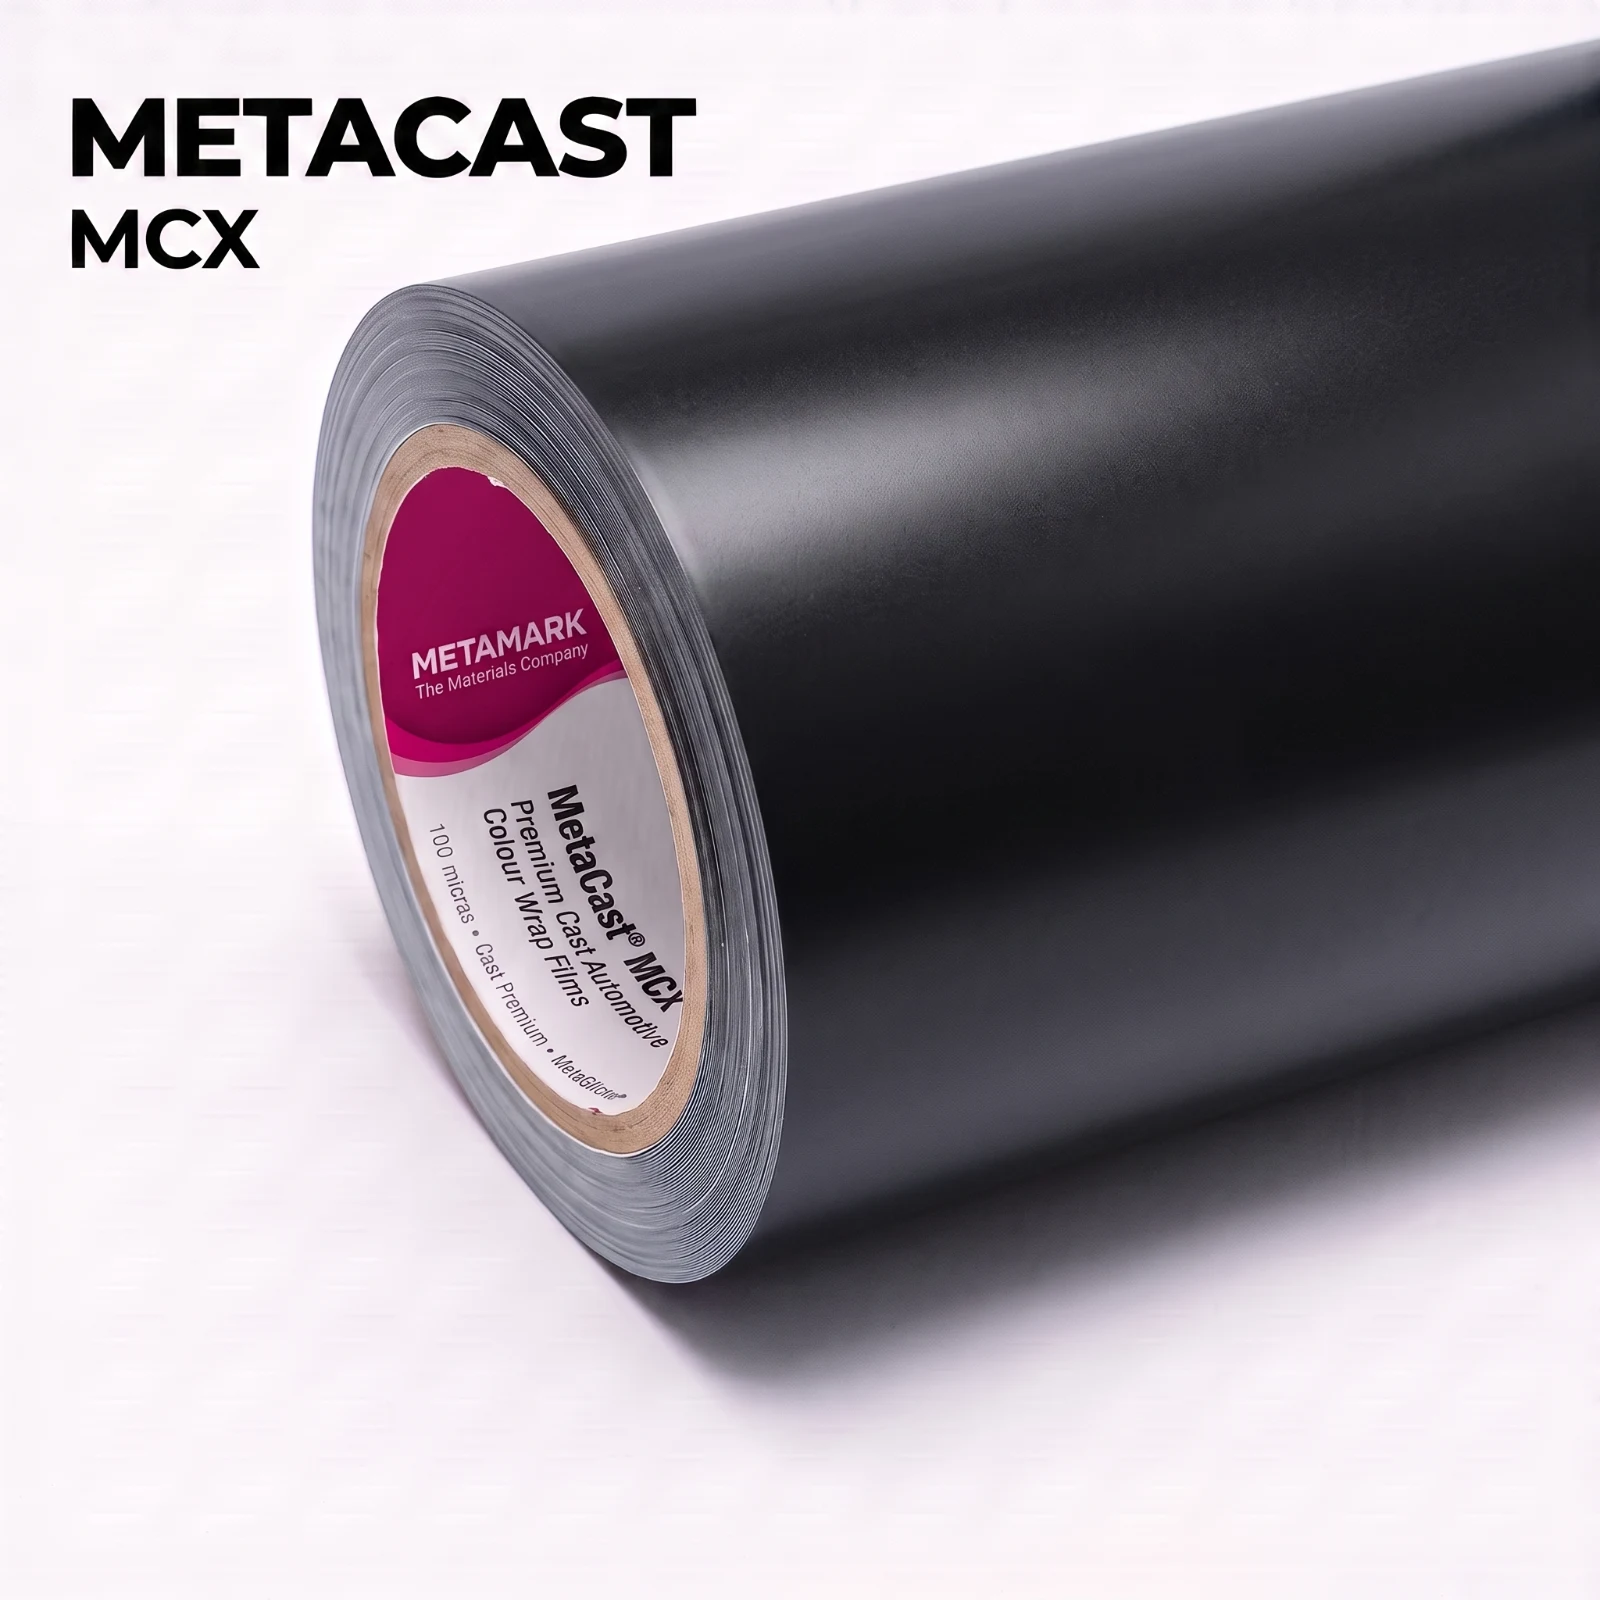
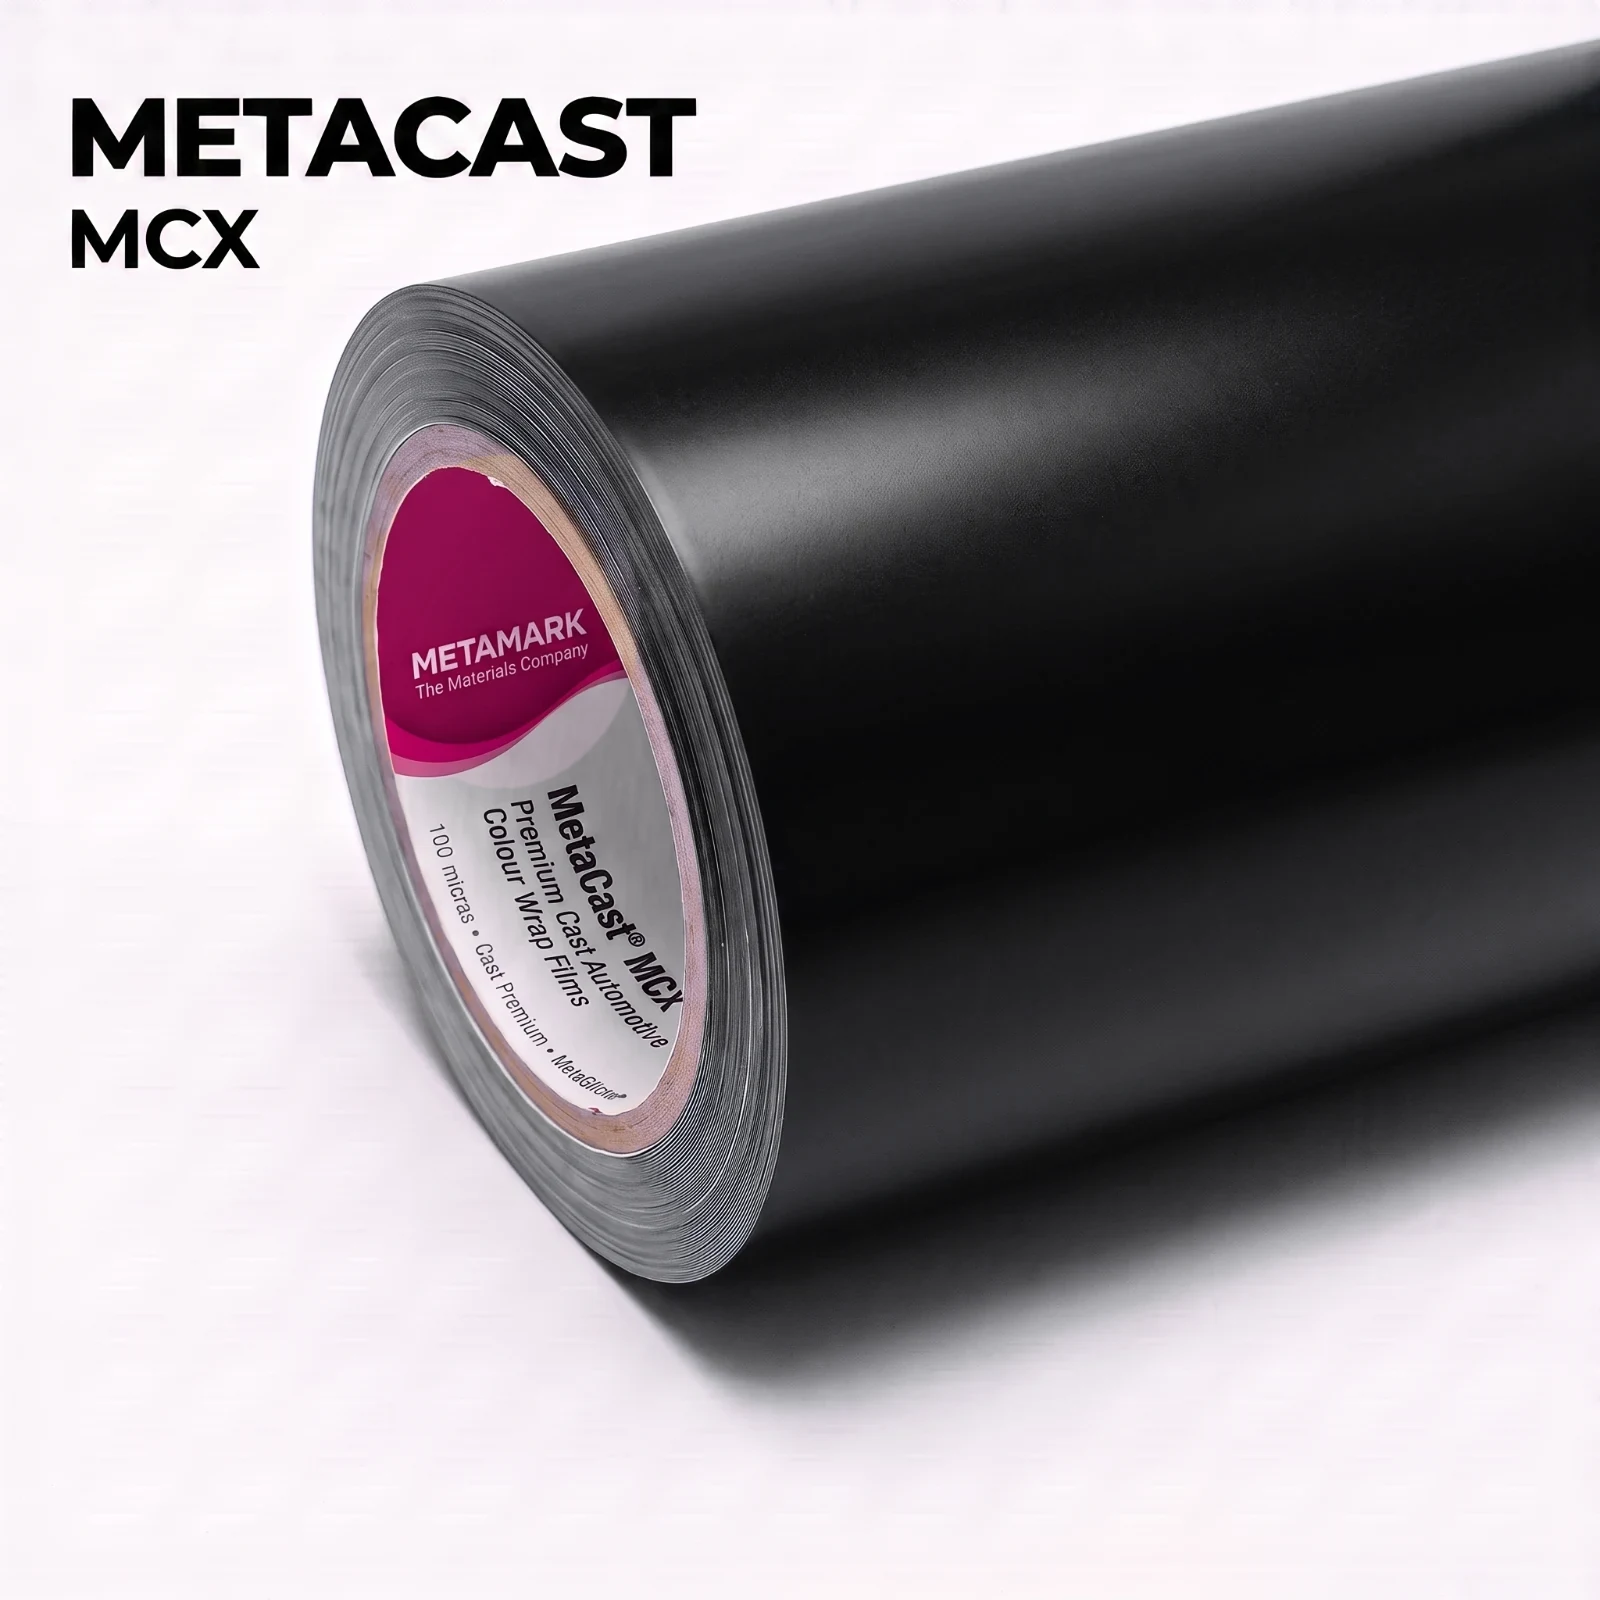
feat(mcx-12): quatro fotos BMW M5 + capa recolorida na leitura (#272729)

Changed region(s): [[0.1875, 0.0312, 1.0, 0.875]]

diff --git a/src/lib/shop/generic.ts b/src/lib/shop/generic.ts
@@ -336,6 +336,33 @@ export const MCX_EXTRA_PHOTOS: Record<string, string[]> = {
     '/assets/images/metamark/mcx/aplicacao/mcx-63-speed-green-4.jpg',
     '/assets/images/metamark/mcx/aplicacao/mcx-63-speed-green-5.jpg',
   ],
+  // MCX-12 Gotham Black — leitura #272729 · H 240° · S 5% · V 16% · SATIN
+  // SOLID. Sem amostra física: a leitura veio do chip oficial (swatch chapado)
+  // cruzado com a foto da brochure. O chip erra pouco na maioria (Urban Steel
+  // +5,1 de valor, Speed Green +3,5) mas errou 20,8 no Carbon Steel, então a
+  // tolerância declarada foi ±5.
+  //
+  // O acabamento é o ponto da cor, e é um dos dois únicos satin-solid da linha.
+  // Granulação medida na brochure: Obsidian (gloss metálico) 5,1, Jet Black
+  // (gloss sólido) 2,6, Gotham 2,2 — sólido sem flake nenhum. O satin aparece
+  // como faixa LARGA e macia de luz, sem imagem espelhada e sem estouro: na
+  // brochure o paralama abre até V 62 sem um pixel passar de 92% de luminância.
+  //
+  // BMW M5 F90 em deck de estacionamento de concreto, nublado claro direcional.
+  // Céu aberto porque o satin precisa de céu para a faixa existir; o concreto
+  // rebate e segura o valor nas saias.
+  //
+  // Medidos: -2 (frontal 3/4) H26 S11 V22, -3 (traseira 3/4) H172 S7 V20,
+  // -4 (perfil) H242 S4 V21, -5 (detalhe) H273 S3 V13. A -2 saiu com rebote
+  // quente do concreto e foi neutralizada por processamento local. Fica o
+  // registro para as próximas neutras: mandar no prompt que o piso é cinza
+  // frio, senão o modelo inventa um rebote dourado nas saias.
+  'mcx-12-gotham-black': [
+    '/assets/images/metamark/mcx/aplicacao/mcx-12-gotham-black-2.jpg',
+    '/assets/images/metamark/mcx/aplicacao/mcx-12-gotham-black-3.jpg',
+    '/assets/images/metamark/mcx/aplicacao/mcx-12-gotham-black-4.jpg',
+    '/assets/images/metamark/mcx/aplicacao/mcx-12-gotham-black-5.jpg',
+  ],
 };
 
 export const MCX_ROLL_IMAGES: Record<string, string> = {

diff --git a/scripts/recolorir-capa.py b/scripts/recolorir-capa.py
@@ -1,0 +1,297 @@
+#!/usr/bin/env python3
+"""
+Recolore o FILME de uma capa de rolo, preservando a composição pixel a pixel.
+
+POR QUE ISTO EXISTE
+-------------------
+As capas de rolo da MetaCast MCX (e das demais linhas) foram geradas por IA a
+partir de um template aprovado. A composição saiu certa — enquadramento, tubete,
+paper label METAMARK, logo no canto superior esquerdo — mas a COR do filme saiu
+com viés sistemático: mais escura e mais dessaturada que o chip do catálogo, às
+vezes com o matiz deslocado. Medições da MCX: Volcano Red 32 pontos de valor
+abaixo, Speed Green 24 e com matiz errado, Miami Blue 23, Chalk Grey 16,
+Monza Yellow 12, Jet Black 10.
+
+Regerar a imagem para corrigir a cor foi tentado e não funciona: o modelo
+reconstrói a composição, o rótulo sai girado ou ilegível, e a capa deixa de
+seguir o padrão da linha. A correção certa é aritmética, não generativa —
+a composição já está aprovada, só o filme precisa andar no espaço de cor.
+
+COMO FUNCIONA
+-------------
+1. Converte a imagem para HSV e mede a cor do filme (mediana de H, S e V sobre
+   a máscara), para saber de ONDE se está partindo. Nada é chutado.
+2. Monta uma máscara do filme por MATIZ + SATURAÇÃO. Numa capa de rolo o filme é
+   a única região cromática grande: o fundo é branco, o tubete é papelão, o label
+   é magenta. Uma faixa de matiz resolve sem segmentação. As bordas da máscara
+   entram por rampa e levam um desfoque gaussiano leve, o que evita o halo que
+   aparece quando se usa máscara binária (tentativa anterior com
+   `binary_propagation` cresceu por cima do label e comeu a marca).
+3. Aplica a transformação:
+      matiz      — desloca para o alvo e COMPRIME o espalhamento em torno dele,
+                   o que corrige matiz errado sem achatar a variação natural;
+      saturação  — curva de gama, não multiplicação;
+      valor      — curva de gama, não multiplicação.
+   A gama é escolhida para levar a MEDIANA medida exatamente ao alvo mantendo
+   0 em 0 e 1 em 1. Multiplicar estoura a crista do cilindro e fecha a barriga
+   em preto; a gama preserva o gradiente inteiro.
+4. Mede o resultado com o mesmo critério e imprime antes/depois. Se a medição
+   final não bater com o alvo, a correção não foi aplicada — é o teste.
+
+USO
+---
+    python3 scripts/recolorir-capa.py \\
+        --entrada public/assets/images/shop/metamark-mcx/mcx-63-speed-green.webp \\
+        --alvo '#548C46'
+
+    # sobrescrevendo no lugar, depois de conferir:
+    python3 scripts/recolorir-capa.py --entrada <arquivo> --alvo '#548C46' --no-lugar
+
+O alvo é a LEITURA DE COR da amostra física (hex canônico medido no leque), não
+o hex do chip da brochure. A leitura mora no comentário do slug em
+`src/lib/shop/generic.ts`.
+
+Requer: numpy, scipy, pillow.
+"""
+
+from __future__ import annotations
+
+import argparse
+import sys
+from pathlib import Path
+
+import numpy as np
+from PIL import Image
+from scipy.ndimage import binary_dilation, binary_fill_holes, gaussian_filter, label as rotular
+
+# Faixa de matiz de cada família de cor, em graus. A máscara pega o filme por
+# matiz; fora destas faixas está o que NÃO pode ser tocado (label magenta,
+# papelão, fundo). `vermelho` cruza o zero e é tratado à parte.
+#
+# `neutro` é o caso dos pretos, brancos e cinzas (MCX-10, MCX-12, MCX-22,
+# MCX-26, MCX-96, MCX-97...). Neles o filme NÃO tem matiz próprio para servir de
+# máscara — um Gotham Black marca 11% de saturação, abaixo do piso que separa
+# filme de fundo nas cores cromáticas. Aí a seleção inverte: pega-se o que é
+# QUASE ACINZENTADO dentro de uma faixa de valor, o que exclui o fundo branco
+# (claro demais) e o tubete de papelão (saturado e quente).
+FAIXAS = {
+    'neutro': None,
+    'vermelho': (330.0, 30.0),
+    'laranja': (12.0, 48.0),
+    'amarelo': (35.0, 75.0),
+    'verde': (72.0, 200.0),
+    'azul': (175.0, 265.0),
+    'roxo': (250.0, 320.0),
+    'rosa': (290.0, 350.0),
+}
+
+
+def hex_para_rgb(h: str) -> tuple[float, float, float]:
+    h = h.strip().lstrip('#')
+    if len(h) != 6:
+        raise ValueError(f'hex inválido: {h}')
+    return tuple(int(h[i:i + 2], 16) / 255.0 for i in (0, 2, 4))  # type: ignore[return-value]
+
+
+def rgb_para_hsv(a: np.ndarray) -> tuple[np.ndarray, np.ndarray, np.ndarray]:
+    """a: (...,3) em 0..1 → (H em 0..360, S em 0..1, V em 0..1)."""
+    r, g, b = a[..., 0], a[..., 1], a[..., 2]
+    mx = a.max(-1)
+    d = mx - a.min(-1)
+    v = mx
+    s = np.where(mx > 1e-6, d / np.maximum(mx, 1e-6), 0.0)
+    h = np.zeros_like(mx)
+    m = d > 1e-6
+    er = m & (mx == r)
+    eg = m & (mx == g) & ~er
+    eb = m & (mx == b) & ~er & ~eg
+    dd = np.maximum(d, 1e-6)
+    h[er] = (60 * (((g - b) / dd) % 6))[er]
+    h[eg] = (60 * (((b - r) / dd) + 2))[eg]
+    h[eb] = (60 * (((r - g) / dd) + 4))[eb]
+    return h % 360, s, v
+
+
+def hsv_para_rgb(h: np.ndarray, s: np.ndarray, v: np.ndarray) -> np.ndarray:
+    hh = (h % 360) / 60.0
+    i = np.floor(hh).astype(int) % 6
+    f = hh - np.floor(hh)
+    p = v * (1 - s)
+    q = v * (1 - s * f)
+    t = v * (1 - s * (1 - f))
+    r = np.choose(i, [v, q, p, p, t, v])
+    g = np.choose(i, [t, v, v, q, p, p])
+    b = np.choose(i, [p, p, t, v, v, q])
+    return np.stack([r, g, b], -1)
+
+
+def rampa(x: np.ndarray, lo: float, hi: float) -> np.ndarray:
+    return np.clip((x - lo) / (hi - lo), 0.0, 1.0)
+
+
+def montar_mascara(
+    h: np.ndarray, s: np.ndarray, v: np.ndarray,
+    familia: str, sat_min: float, val_min: float, feather: float,
+    val_max: float = 0.80, sat_max: float = 0.34,
+) -> np.ndarray:
+    """Máscara suave do filme. Bordas por rampa + gaussiana: sem halo, sem
+    invadir o label."""
+    if familia == 'neutro':
+        ms = 1 - rampa(s, sat_max * 0.7, sat_max)   # descarta papelão e magenta
+        mv = rampa(v, val_min * 0.5, val_min) * (1 - rampa(v, val_max, val_max + 0.12))
+        return np.clip(gaussian_filter(ms * mv, feather), 0.0, 1.0)
+    lo, hi = FAIXAS[familia]
+    larg = 14.0  # largura da rampa de matiz, em graus
+    if lo > hi:  # faixa que cruza 0° (vermelho)
+        dentro = rampa(h, lo - larg, lo) + rampa(-h, -hi, -hi + larg)
+        mh = np.clip(dentro, 0, 1)
+    else:
+        mh = rampa(h, lo, lo + larg) * (1 - rampa(h, hi - larg, hi))
+    ms = rampa(s, sat_min * 0.6, sat_min)
+    mv = rampa(v, val_min * 0.5, val_min)
+    return np.clip(gaussian_filter(mh * ms * mv, feather), 0.0, 1.0)
+
+
+def achar_label(h: np.ndarray, s: np.ndarray, v: np.ndarray, margem: int) -> np.ndarray:
+    """Disco do paper label METAMARK, para ficar FORA da recoloração.
+
+    O campo magenta do label (matiz ~330°) cai dentro da faixa 'vermelho' e
+    'rosa'. Sem esta proteção, recolorir uma capa vermelha repinta a marca e
+    deixa um halo de matiz oposto na borda serrilhada entre o magenta e o
+    branco do label. Aqui o magenta é achado, o maior blob é tomado como o
+    label, os furos (o texto branco por dentro) são preenchidos e o resultado
+    é dilatado pela margem — crescer a PROTEÇÃO é inócuo, ao contrário de
+    crescer a máscara do filme.
+    """
+    magenta = ((h >= 300) & (h <= 352) & (s >= 0.30) & (v >= 0.15))
+    if magenta.sum() < 200:
+        return np.zeros_like(magenta)
+    marcas, n = rotular(magenta)
+    if n == 0:
+        return np.zeros_like(magenta)
+    maior = 1 + int(np.argmax(np.bincount(marcas.ravel())[1:]))
+    disco = binary_fill_holes(marcas == maior)
+    # o label é maior que só o campo magenta: fecha a elipse inteira pelo bbox
+    ys, xs = np.nonzero(disco)
+    cy, cx = (ys.min() + ys.max()) / 2, (xs.min() + xs.max()) / 2
+    ry, rx = (ys.max() - ys.min()) / 2 + margem, (xs.max() - xs.min()) / 2 + margem
+    Y, X = np.ogrid[:h.shape[0], :h.shape[1]]
+    elipse = ((Y - cy) / max(ry, 1)) ** 2 + ((X - cx) / max(rx, 1)) ** 2 <= 1.0
+    return binary_dilation(disco | elipse, iterations=2)
+
+
+def medir(a: np.ndarray, sel: np.ndarray) -> dict:
+    h, s, v = rgb_para_hsv(a)
+    rgb = [int(round(float(np.median(a[..., k][sel])) * 255)) for k in range(3)]
+    return {
+        'hex': '#%02X%02X%02X' % tuple(rgb),
+        'h': float(np.median(h[sel])),
+        's': float(np.median(s[sel])) * 100,
+        'v': float(np.median(v[sel])) * 100,
+        'v_p10_p90': tuple(np.percentile(v[sel], [10, 90]) * 100),
+        's_p10_p90': tuple(np.percentile(s[sel], [10, 90]) * 100),
+    }
+
+
+def main() -> int:
+    ap = argparse.ArgumentParser(description=__doc__, formatter_class=argparse.RawDescriptionHelpFormatter)
+    ap.add_argument('--entrada', required=True, help='capa de origem (.webp/.png/.jpg)')
+    ap.add_argument('--alvo', required=True, help="hex da LEITURA da amostra, ex '#548C46'")
+    ap.add_argument('--saida', help='destino; padrão = <entrada>-recolorido.png')
+    ap.add_argument('--no-lugar', action='store_true', help='sobrescreve a entrada, no formato dela')
+    ap.add_argument('--familia', default='verde', choices=sorted(FAIXAS),
+                    help="faixa de matiz do filme; use 'neutro' para pretos, brancos e cinzas (padrão: verde)")
+    ap.add_argument('--val-max', type=float, default=0.80,
+                    help="só em --familia neutro: acima disto é o fundo branco do estúdio")
+    ap.add_argument('--sat-max', type=float, default=0.34,
+                    help="só em --familia neutro: acima disto é papelão ou o magenta do label")
+    ap.add_argument('--compressao-matiz', type=float, default=0.60,
+                    help='0 = todo o filme vira um matiz só; 1 = mantém o espalhamento original (padrão: 0.60)')
+    ap.add_argument('--sat-min', type=float, default=0.18, help='abaixo disto é cinza/branco e não entra na máscara')
+    ap.add_argument('--val-min', type=float, default=0.09, help='abaixo disto é preto e não entra na máscara')
+    ap.add_argument('--feather', type=float, default=1.2, help='desfoque da borda da máscara, em px')
+    ap.add_argument('--margem-label', type=int, default=10,
+                    help='folga em px em volta do paper label protegido (0 desliga a proteção)')
+    ap.add_argument('--qualidade', type=int, default=88, help='qualidade do webp de saída')
+    args = ap.parse_args()
+
+    src = Path(args.entrada)
+    if not src.exists():
+        print(f'erro: não achei {src}', file=sys.stderr)
+        return 1
+
+    im = Image.open(src).convert('RGB')
+    a = np.asarray(im).astype(np.float32) / 255.0
+    h, s, v = rgb_para_hsv(a)
+
+    mask = montar_mascara(h, s, v, args.familia, args.sat_min, args.val_min, args.feather,
+                          args.val_max, args.sat_max)
+    label = achar_label(h, s, v, args.margem_label) if args.margem_label > 0 else np.zeros(h.shape, bool)
+    if label.any():
+        mask = mask * gaussian_filter((~label).astype(np.float32), args.feather)
+    nucleo = mask > 0.8
+    if nucleo.sum() < 500:
+        print('erro: máscara vazia — família de matiz errada para esta capa?', file=sys.stderr)
+        return 1
+
+    antes = medir(a, nucleo)
+    h_alvo, s_alvo, v_alvo = rgb_para_hsv(np.array(hex_para_rgb(args.alvo), dtype=np.float32))
+    h_alvo, s_alvo, v_alvo = float(h_alvo), float(s_alvo), float(v_alvo)
+
+    # Gama que leva a mediana medida exatamente ao alvo, preservando 0 e 1.
+    gama_s = np.log(max(s_alvo, 1e-4)) / np.log(max(antes['s'] / 100, 1e-4))
+    gama_v = np.log(max(v_alvo, 1e-4)) / np.log(max(antes['v'] / 100, 1e-4))
+
+    # Matiz é CIRCULAR: a diferença tem de vir pelo caminho curto. Sem isto, numa
+    # capa vermelha os pixels logo acima de 0° distam ~346° dos logo abaixo de
+    # 360°, a compressão os joga para o outro lado da roda e aparece um anel
+    # verde em volta do label. Foi exatamente o que o teste do Volcano Red pegou.
+    dh = (h - antes['h'] + 180.0) % 360.0 - 180.0
+    h2 = (h_alvo + dh * args.compressao_matiz) % 360.0
+    s2 = np.clip(np.clip(s, 1e-4, 1.0) ** gama_s, 0, 1)
+    v2 = np.clip(np.clip(v, 1e-4, 1.0) ** gama_v, 0, 1)
+
+    m = mask[..., None]
+    out = np.clip(a * (1 - m) + hsv_para_rgb(h2, s2, v2) * m, 0, 1)
+    depois = medir(out, nucleo)
+
+    dst = Path(args.entrada) if args.no_lugar else Path(args.saida or src.with_name(src.stem + '-recolorido.png'))
+    img = Image.fromarray((out * 255 + 0.5).astype(np.uint8))
+    if dst.suffix.lower() == '.webp':
+        img.save(dst, 'WEBP', quality=args.qualidade, method=6)
+    else:
+        img.save(dst)
+
+    cob = mask.mean() * 100
+    prot = f' · label protegido {label.mean() * 100:.1f}%' if label.any() else ' · label NÃO encontrado'
+    print(f'máscara     {cob:.1f}% da imagem   (gama S {gama_s:.3f} · gama V {gama_v:.3f} · matiz {h_alvo - antes["h"]:+.1f}°{prot})')
+    print(f'antes       {antes["hex"]}  H {antes["h"]:.1f}  S {antes["s"]:.1f}  V {antes["v"]:.1f}')
+    print(f'depois      {depois["hex"]}  H {depois["h"]:.1f}  S {depois["s"]:.1f}  V {depois["v"]:.1f}')
+    print(f'alvo        {args.alvo.upper()}  H {h_alvo:.1f}  S {s_alvo * 100:.1f}  V {v_alvo * 100:.1f}')
+    # Estouro de verdade, medido: quanto do filme encostou no teto de S ou de V.
+    # Passar de ~2% quer dizer que a correção pedida é grande demais para esta
+    # capa — o gradiente perde informação e a peça fica chapada. Nesse caso a
+    # capa precisa ser REGERADA na cor certa, não corrigida.
+    _, s_fin, v_fin = rgb_para_hsv(out)
+    corte_s = float((s_fin[nucleo] >= 0.995).mean()) * 100
+    corte_v = float((v_fin[nucleo] >= 0.995).mean()) * 100
+    print(f'gradiente   V {depois["v_p10_p90"][0]:.0f}→{depois["v_p10_p90"][1]:.0f}   '
+          f'S {depois["s_p10_p90"][0]:.0f}→{depois["s_p10_p90"][1]:.0f}   '
+          f'(estouro S {corte_s:.1f}% · V {corte_v:.1f}%)')
+    print(f'gravado em  {dst}')
+
+    saida = 0
+    dh_err = abs((depois['h'] - h_alvo + 180) % 360 - 180)
+    erro = max(dh_err, abs(depois['s'] - s_alvo * 100), abs(depois['v'] - v_alvo * 100))
+    if erro > 1.5:
+        print(f'ATENÇÃO: desvio de {erro:.1f} contra o alvo — confira antes de publicar', file=sys.stderr)
+        saida = 2
+    if max(corte_s, corte_v) > 2.0:
+        print(f'ATENÇÃO: {max(corte_s, corte_v):.1f}% do filme estourou — correção grande demais, '
+              f'esta capa precisa ser regerada na cor, não corrigida', file=sys.stderr)
+        saida = 3
+    return saida
+
+
+if __name__ == '__main__':
+    raise SystemExit(main())
